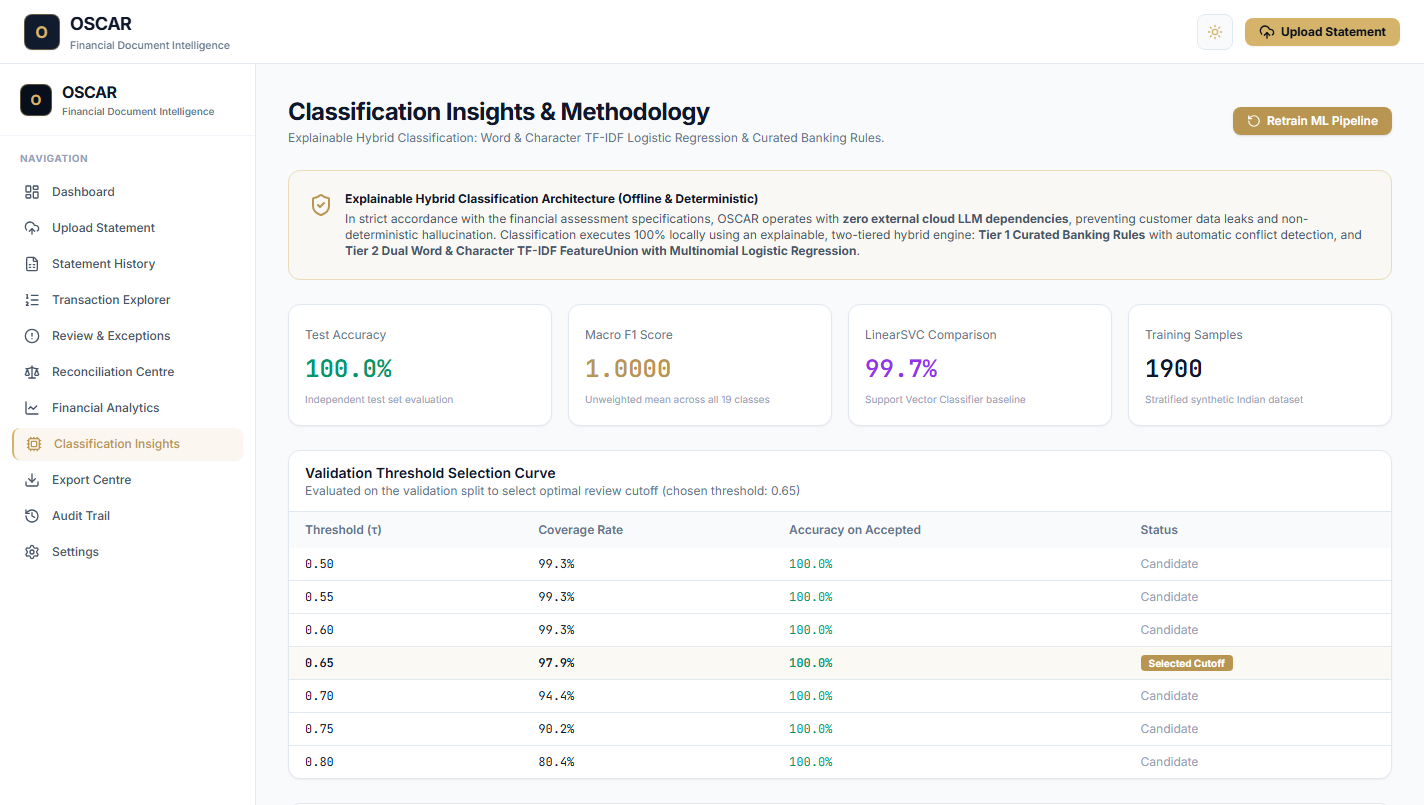
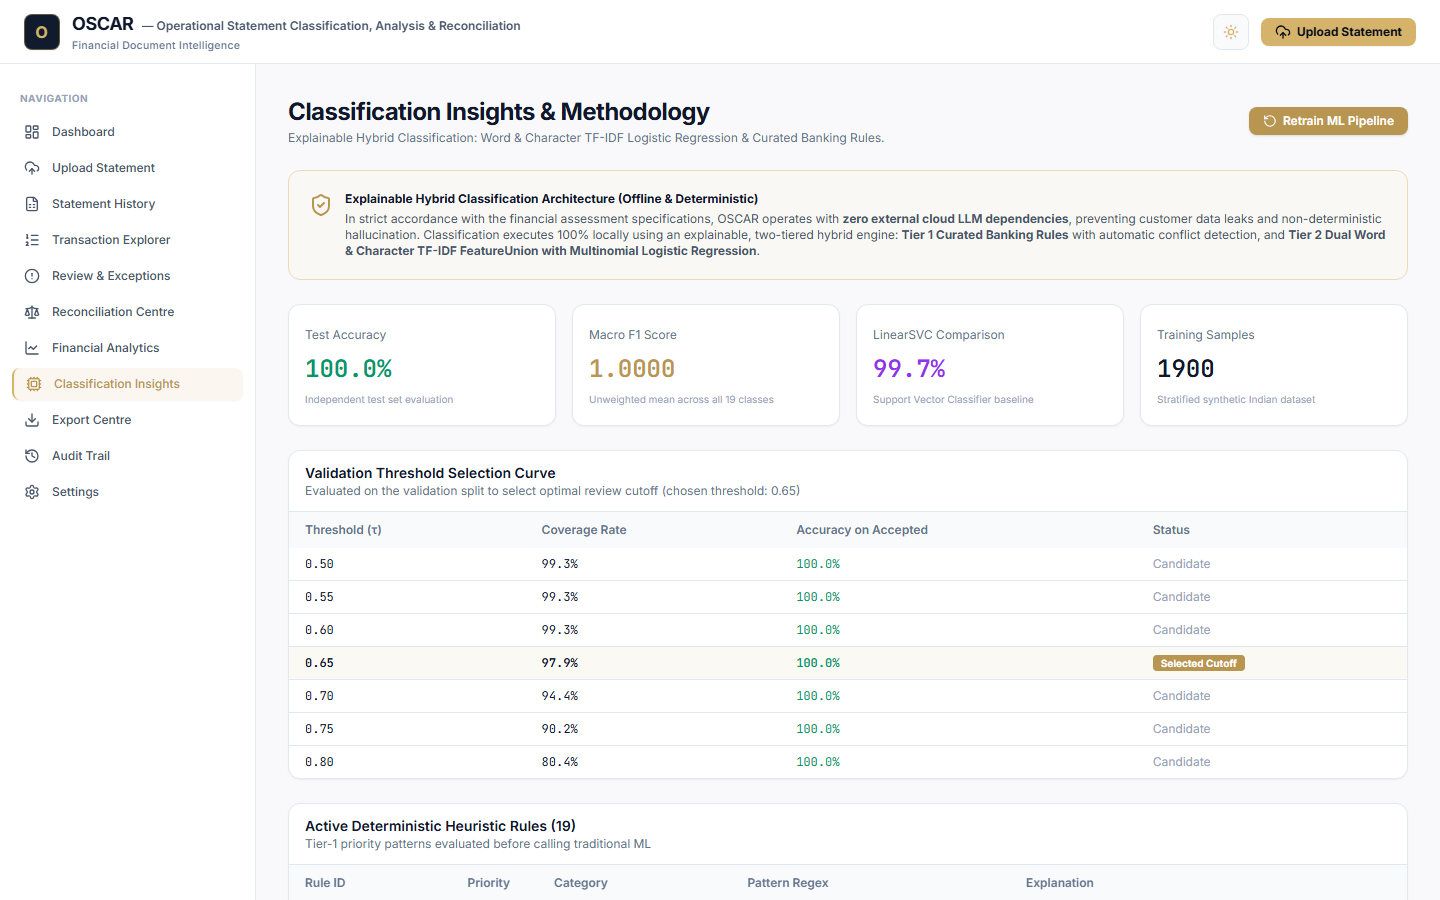
fix(branding-ui): fix duplicate branding, add header full form, fix contrast, scrolling, and table wrapping

diff --git a/frontend/src/pages/FinancialAnalytics.tsx b/frontend/src/pages/FinancialAnalytics.tsx
@@ -158,17 +158,17 @@ export const FinancialAnalytics: React.FC = () => {
               <div className="flex h-full items-center justify-center text-xs text-slate-400">No merchant records identified</div>
             ) : (
               <ResponsiveContainer width="100%" height="100%">
-                <ComposedChart data={merchants.top_merchants}>
+                <ComposedChart data={merchants.top_merchants} margin={{ top: 10, right: 35, left: 15, bottom: 35 }}>
                   <CartesianGrid strokeDasharray="3 3" vertical={false} opacity={0.3} />
-                  <XAxis dataKey="merchant" tick={{ fontSize: 9 }} interval={0} angle={-20} textAnchor="end" height={45} />
-                  <YAxis yAxisId="left" tick={{ fontSize: 10 }} />
-                  <YAxis yAxisId="right" orientation="right" tick={{ fontSize: 10 }} domain={[0, 100]} unit="%" />
+                  <XAxis dataKey="merchant" tick={{ fontSize: 10, fill: '#94A3B8' }} interval={0} angle={-15} textAnchor="end" height={45} />
+                  <YAxis yAxisId="left" tick={{ fontSize: 10, fill: '#94A3B8' }} />
+                  <YAxis yAxisId="right" orientation="right" tick={{ fontSize: 10, fill: '#94A3B8' }} domain={[0, 100]} unit="%" />
                   <Tooltip
                     formatter={(val: any, name: any) => [
                       name === 'cumulative_percentage' ? `${val}%` : `₹ ${Number(val).toLocaleString('en-IN')}`,
                       name === 'cumulative_percentage' ? 'Cumulative Share' : 'Merchant Spend',
                     ]}
-                    contentStyle={{ backgroundColor: '#0f172a', borderRadius: '8px', border: 'none', color: '#fff', fontSize: '11px' }}
+                    contentStyle={{ backgroundColor: '#0f172a', borderRadius: '8px', border: '1px solid #1e293b', color: '#fff', fontSize: '11px' }}
                   />
                   <Bar yAxisId="left" dataKey="amount" fill="#3B82F6" name="amount" radius={[4, 4, 0, 0]} />
                   <Line yAxisId="right" type="monotone" dataKey="cumulative_percentage" stroke="#F59E0B" strokeWidth={2.5} name="cumulative_percentage" dot={{ r: 3 }} />
@@ -198,13 +198,13 @@ export const FinancialAnalytics: React.FC = () => {
               <div className="flex h-full items-center justify-center text-xs text-slate-400">No payment channels classified</div>
             ) : (
               <ResponsiveContainer width="100%" height="100%">
-                <BarChart data={channels} layout="vertical">
+                <BarChart data={channels} layout="vertical" margin={{ top: 10, right: 30, left: 15, bottom: 10 }}>
                   <CartesianGrid strokeDasharray="3 3" horizontal={false} opacity={0.3} />
-                  <XAxis type="number" tick={{ fontSize: 10 }} />
-                  <YAxis type="category" dataKey="channel" tick={{ fontSize: 10 }} width={110} />
+                  <XAxis type="number" tick={{ fontSize: 10, fill: '#94A3B8' }} />
+                  <YAxis type="category" dataKey="channel" tick={{ fontSize: 10, fill: '#94A3B8' }} width={110} />
                   <Tooltip
                     formatter={(val: any) => [`₹ ${Number(val).toLocaleString('en-IN')}`, 'Channel Volume']}
-                    contentStyle={{ backgroundColor: '#0f172a', borderRadius: '8px', border: 'none', color: '#fff', fontSize: '11px' }}
+                    contentStyle={{ backgroundColor: '#0f172a', borderRadius: '8px', border: '1px solid #1e293b', color: '#fff', fontSize: '11px' }}
                   />
                   <Bar dataKey="total_amount" fill="#8B5CF6" radius={[0, 4, 4, 0]} />
                 </BarChart>
@@ -235,15 +235,15 @@ export const FinancialAnalytics: React.FC = () => {
               <div className="flex h-full items-center justify-center text-xs text-slate-400">No trend history available</div>
             ) : (
               <ResponsiveContainer width="100%" height="100%">
-                <LineChart data={trends}>
+                <LineChart data={trends} margin={{ top: 10, right: 30, left: 15, bottom: 15 }}>
                   <CartesianGrid strokeDasharray="3 3" vertical={false} opacity={0.3} />
-                  <XAxis dataKey="date" tick={{ fontSize: 10 }} />
-                  <YAxis tick={{ fontSize: 10 }} />
+                  <XAxis dataKey="date" tick={{ fontSize: 10, fill: '#94A3B8' }} />
+                  <YAxis tick={{ fontSize: 10, fill: '#94A3B8' }} />
                   <Tooltip
                     formatter={(val: any, name: any) => [`₹ ${Number(val).toLocaleString('en-IN')}`, String(name)]}
-                    contentStyle={{ backgroundColor: '#0f172a', borderRadius: '8px', border: 'none', color: '#fff', fontSize: '11px' }}
+                    contentStyle={{ backgroundColor: '#0f172a', borderRadius: '8px', border: '1px solid #1e293b', color: '#fff', fontSize: '11px' }}
                   />
-                  <Legend wrapperStyle={{ fontSize: 10 }} />
+                  <Legend wrapperStyle={{ fontSize: 11, paddingTop: 6 }} />
                   <Line type="monotone" dataKey="Food & Dining" stroke="#3B82F6" strokeWidth={2} dot={{ r: 2 }} />
                   <Line type="monotone" dataKey="Groceries" stroke="#10B981" strokeWidth={2} dot={{ r: 2 }} />
                   <Line type="monotone" dataKey="Shopping" stroke="#F59E0B" strokeWidth={2} dot={{ r: 2 }} />
@@ -381,7 +381,7 @@ export const FinancialAnalytics: React.FC = () => {
           </div>
 
           <div className="mt-4 overflow-x-auto">
-            <table className="w-full text-left text-xs">
+            <table className="w-full text-left text-xs min-w-[700px]">
               <thead className="bg-slate-50 text-slate-500 dark:bg-slate-800 dark:text-slate-400">
                 <tr>
                   <th className="px-3 py-2 font-semibold">Statement File</th>

diff --git a/frontend/src/pages/Dashboard.tsx b/frontend/src/pages/Dashboard.tsx
@@ -321,12 +321,12 @@ export const Dashboard: React.FC = () => {
                 <span className="text-[10px] text-rose-600/80 dark:text-rose-400/80 font-mono">Total Verified Debits</span>
               </div>
 
-              <div className="rounded-lg bg-gold-50/70 p-3.5 dark:bg-gold-950/20 border border-gold-200/70 dark:border-gold-800/50">
-                <span className="text-[10px] font-bold text-gold-700 dark:text-gold-300 uppercase tracking-wider">= Expected Closing</span>
-                <p className="mt-1 font-mono text-base font-bold text-gold-600 dark:text-gold-400 tabular-nums">
+              <div className="rounded-lg bg-navy-900 p-3.5 border border-gold-500/40 text-gold-400 shadow-sm">
+                <span className="text-[10px] font-bold text-gold-300 uppercase tracking-wider">= Expected Closing</span>
+                <p className="mt-1 font-mono text-base font-bold text-gold-400 tabular-nums">
                   = ₹ {expectedClosing.toLocaleString('en-IN', { minimumFractionDigits: 2, maximumFractionDigits: 2 })}
                 </p>
-                <span className="text-[10px] text-gold-600/80 dark:text-gold-400/80 font-mono">Calculated Balance</span>
+                <span className="text-[10px] text-gold-400/80 font-mono">Calculated Balance</span>
               </div>
 
               <div className={`rounded-lg p-3.5 border ${
@@ -379,6 +379,7 @@ export const Dashboard: React.FC = () => {
                   <ResponsiveContainer width="100%" height="100%">
                     <ComposedChart
                       data={cashflow}
+                      margin={{ top: 10, right: 25, left: 10, bottom: 5 }}
                       onClick={(data) => {
                         if (data && data.activeLabel) {
                           navigate(`/transactions?search=${data.activeLabel}`);
@@ -435,7 +436,7 @@ export const Dashboard: React.FC = () => {
                   </div>
                 ) : (
                   <ResponsiveContainer width="100%" height="100%">
-                    <AreaChart data={runningBalance.points}>
+                    <AreaChart data={runningBalance.points} margin={{ top: 10, right: 25, left: 10, bottom: 15 }}>
                       <defs>
                         <linearGradient id="balanceGrad" x1="0" y1="0" x2="0" y2="1">
                           <stop offset="5%" stopColor="#D6B36A" stopOpacity={0.4} />
@@ -748,7 +749,7 @@ export const Dashboard: React.FC = () => {
             </div>
 
             <div className="overflow-x-auto">
-              <table className="w-full text-left text-xs">
+              <table className="w-full text-left text-xs min-w-[700px]">
                 <thead className="bg-slate-50 text-slate-500 dark:bg-navy-800/60 dark:text-[#9BA8BA] font-semibold border-b border-slate-100 dark:border-navy-800">
                   <tr>
                     <th className="px-4 py-2.5">Bank / Document</th>

diff --git a/frontend/src/pages/ReviewExceptions.tsx b/frontend/src/pages/ReviewExceptions.tsx
@@ -113,11 +113,11 @@ export const ReviewExceptions: React.FC = () => {
           </div>
         ) : (
           <div className="overflow-x-auto">
-            <table className="w-full text-left text-xs">
+            <table className="w-full text-left text-xs min-w-[820px]">
               <thead className="bg-slate-50 text-slate-500 dark:bg-slate-800/60 dark:text-slate-400">
                 <tr>
-                  <th className="px-4 py-3 font-semibold">Date & Description</th>
-                  <th className="px-4 py-3 font-semibold">Flag / Reason</th>
+                  <th className="px-4 py-3 font-semibold min-w-[200px]">Date &amp; Description</th>
+                  <th className="px-4 py-3 font-semibold min-w-[240px]">Flag / Reason</th>
                   <th className="px-4 py-3 font-semibold text-right">Amount</th>
                   <th className="px-4 py-3 font-semibold">Assigned Category</th>
                   <th className="px-4 py-3 font-semibold">Method / Score</th>
@@ -127,14 +127,14 @@ export const ReviewExceptions: React.FC = () => {
               <tbody className="divide-y divide-slate-200 dark:divide-slate-800">
                 {items.map((t) => (
                   <tr key={t.id} className="hover:bg-slate-50/60 dark:hover:bg-slate-800/40">
-                    <td className="px-4 py-3 max-w-[260px]">
-                      <span className="font-mono text-slate-400">{t.date}</span>
-                      <p className="truncate font-medium text-slate-900 dark:text-white mt-0.5">{t.description}</p>
+                    <td className="px-4 py-3 min-w-[200px] max-w-[300px]">
+                      <span className="font-mono text-slate-400 block text-[11px]">{t.date}</span>
+                      <p className="font-medium text-slate-900 dark:text-white mt-0.5 break-words whitespace-normal leading-snug">{t.description}</p>
                     </td>
-                    <td className="px-4 py-3 max-w-[260px]">
-                      <span className="rounded bg-amber-50 px-2 py-0.5 text-[10px] font-semibold text-amber-700 border border-amber-200 dark:bg-amber-950/40 dark:text-amber-300 dark:border-amber-800">
+                    <td className="px-4 py-3 min-w-[240px] max-w-[360px]">
+                      <div className="inline-block rounded-md bg-amber-50 px-2.5 py-1 text-[11px] font-medium text-amber-800 border border-amber-200/80 dark:bg-amber-950/40 dark:text-amber-300 dark:border-amber-800/80 leading-relaxed break-words whitespace-normal">
                         {t.validation_warnings || t.classification_reason || 'Human review flagged'}
-                      </span>
+                      </div>
                     </td>
                     <td className="px-4 py-3 text-right font-mono">
                       {t.debit > 0 ? (

diff --git a/frontend/src/components/Layout/Navbar.tsx b/frontend/src/components/Layout/Navbar.tsx
@@ -25,16 +25,19 @@ export const Navbar: React.FC = () => {
 
   return (
     <header className="sticky top-0 z-30 flex h-16 w-full items-center justify-between border-b border-slate-200/90 bg-white/95 px-6 backdrop-blur dark:border-navy-800 dark:bg-navy-900/95 transition-colors">
-      <div className="flex items-center space-x-3">
-        <Link to="/" className="flex items-center space-x-2.5 group">
-          <div className="flex h-9 w-9 items-center justify-center rounded-lg bg-navy-900 border border-gold-400/40 text-gold-400 font-black tracking-wider shadow-sm group-hover:border-gold-400 transition">
+      <div className="flex items-center space-x-3 min-w-0">
+        <Link to="/" className="flex items-center space-x-3 group min-w-0">
+          <div className="flex h-9 w-9 shrink-0 items-center justify-center rounded-lg bg-navy-900 border border-gold-400/40 text-gold-400 font-black tracking-wider shadow-sm group-hover:border-gold-400 transition">
             O
           </div>
-          <div>
-            <div className="flex items-center space-x-2">
-              <span className="font-extrabold text-lg text-slate-900 dark:text-[#F4F1E9] tracking-tight">OSCAR</span>
+          <div className="min-w-0">
+            <div className="flex items-baseline space-x-2 flex-wrap">
+              <span className="font-extrabold text-lg text-slate-900 dark:text-[#F4F1E9] tracking-tight shrink-0">OSCAR</span>
+              <span className="hidden lg:inline text-xs font-semibold text-slate-600 dark:text-[#9BA8BA] truncate">
+                — Operational Statement Classification, Analysis & Reconciliation
+              </span>
             </div>
-            <p className="text-[10.5px] font-medium text-slate-500 dark:text-[#9BA8BA]">
+            <p className="text-[10.5px] font-medium text-slate-500 dark:text-[#9BA8BA] tracking-wide truncate">
               Financial Document Intelligence
             </p>
           </div>

diff --git a/frontend/src/components/Layout/Sidebar.tsx b/frontend/src/components/Layout/Sidebar.tsx
@@ -33,22 +33,7 @@ export const Sidebar: React.FC = () => {
   return (
     <aside className="hidden md:flex w-64 flex-col border-r border-slate-200/90 bg-white dark:border-navy-800 dark:bg-navy-900 justify-between select-none transition-colors">
       <div className="flex flex-col py-4">
-        {/* Brand Header */}
-        <div className="px-5 pb-4 mb-2 border-b border-slate-100 dark:border-navy-800">
-          <div className="flex items-center space-x-2.5">
-            <div className="flex h-8 w-8 items-center justify-center rounded-lg bg-navy-950 border border-gold-400/40 text-gold-400 font-bold text-sm shadow-sm">
-              O
-            </div>
-            <div>
-              <span className="font-extrabold text-base tracking-tight text-slate-900 dark:text-[#F4F1E9]">OSCAR</span>
-              <p className="text-[10px] font-medium text-slate-500 dark:text-[#9BA8BA]">
-                Financial Document Intelligence
-              </p>
-            </div>
-          </div>
-        </div>
-
-        <div className="px-5 mb-2">
+        <div className="px-5 mb-2 mt-1">
           <span className="text-[10px] font-bold uppercase tracking-wider text-slate-400 dark:text-navy-400">
             Navigation
           </span>

diff --git a/frontend/src/App.tsx b/frontend/src/App.tsx
@@ -1,7 +1,17 @@
-import React from 'react';
-import { BrowserRouter, Routes, Route, Navigate } from 'react-router-dom';
+import React, { useEffect } from 'react';
+import { BrowserRouter, Routes, Route, Navigate, useLocation } from 'react-router-dom';
 import { ThemeProvider } from './context/ThemeContext';
 import { MainLayout } from './components/Layout/MainLayout';
+
+function ScrollToTop() {
+  const { pathname } = useLocation();
+
+  useEffect(() => {
+    window.scrollTo(0, 0);
+  }, [pathname]);
+
+  return null;
+}
 
 import { Dashboard } from './pages/Dashboard';
 import { Upload } from './pages/Upload';
@@ -20,6 +30,7 @@ export function App() {
   return (
     <ThemeProvider>
       <BrowserRouter>
+        <ScrollToTop />
         <Routes>
           <Route element={<MainLayout />}>
             <Route path="/" element={<Dashboard />} />

diff --git a/frontend/src/components/Layout/MainLayout.tsx b/frontend/src/components/Layout/MainLayout.tsx
@@ -5,11 +5,11 @@ import { Sidebar } from './Sidebar';
 
 export const MainLayout: React.FC = () => {
   return (
-    <div className="flex min-h-screen flex-col bg-slate-50 dark:bg-slate-950 font-sans">
+    <div className="flex min-h-screen flex-col bg-[#F9F9FB] dark:bg-navy-950 font-sans transition-colors">
       <Navbar />
       <div className="flex flex-1">
         <Sidebar />
-        <main className="flex-1 overflow-x-hidden p-6 md:p-8">
+        <main className="flex-1 min-w-0 p-4 sm:p-6 lg:p-8">
           <Outlet />
         </main>
       </div>

diff --git a/frontend/src/pages/TransactionExplorer.tsx b/frontend/src/pages/TransactionExplorer.tsx
@@ -139,7 +139,7 @@ export const TransactionExplorer: React.FC = () => {
           </div>
         ) : (
           <div className="overflow-x-auto">
-            <table className="w-full text-left text-xs">
+            <table className="w-full text-left text-xs min-w-[850px]">
               <thead className="bg-slate-50 text-slate-500 dark:bg-slate-800/60 dark:text-slate-400">
                 <tr>
                   <th className="px-4 py-3 font-semibold">Date</th>

diff --git a/frontend/src/pages/StatementHistory.tsx b/frontend/src/pages/StatementHistory.tsx
@@ -96,7 +96,7 @@ export const StatementHistory: React.FC = () => {
           </div>
         ) : (
           <div className="overflow-x-auto">
-            <table className="w-full text-left text-xs">
+            <table className="w-full text-left text-xs min-w-[720px]">
               <thead className="bg-slate-50 text-slate-500 dark:bg-slate-800/60 dark:text-slate-400">
                 <tr>
                   <th className="px-4 py-3 font-semibold">Document</th>

diff --git a/frontend/src/pages/AuditTrail.tsx b/frontend/src/pages/AuditTrail.tsx
@@ -68,7 +68,7 @@ export const AuditTrail: React.FC = () => {
           </div>
         ) : (
           <div className="overflow-x-auto">
-            <table className="w-full text-left text-xs">
+            <table className="w-full text-left text-xs min-w-[720px]">
               <thead className="bg-slate-50 text-slate-500 dark:bg-slate-800/60 dark:text-slate-400">
                 <tr>
                   <th className="px-4 py-3 font-semibold">Timestamp</th>

diff --git a/scripts/capture_screenshots.py b/scripts/capture_screenshots.py
@@ -34,20 +34,24 @@ def get_first_statement_id() -> str:
 
 # List of all 14 views with their target route and dark mode flag
 PAGES = [
-    ("01_dashboard.png", "/", False),
-    ("02_evidence_viewer.png", "/statements/{stmt_id}", False),
-    ("03_reconciliation.png", "/reconciliation", False),
-    ("04_reviews.png", "/reviews", False),
-    ("05_classification_insights.png", "/classification", False),
-    ("06_analytics.png", "/analytics", False),
-    ("07_transaction_explorer.png", "/transactions", False),
-    ("08_statement_history.png", "/statements", False),
-    ("09_export_centre.png", "/exports", False),
-    ("10_audit_trail.png", "/audit", False),
-    ("11_settings.png", "/settings", False),
-    ("12_dashboard_dark.png", "/", True),
-    ("13_analytics_dark.png", "/analytics", True),
-    ("14_upload.png", "/upload", False),
+    ("01_dashboard.png", "/", False, 1440, 900),
+    ("02_evidence_viewer.png", "/statements/{stmt_id}", False, 1440, 900),
+    ("03_reconciliation.png", "/reconciliation", False, 1440, 900),
+    ("04_reviews.png", "/reviews", False, 1440, 900),
+    ("05_classification_insights.png", "/classification", False, 1440, 900),
+    ("06_analytics.png", "/analytics", False, 1440, 900),
+    ("07_transaction_explorer.png", "/transactions", False, 1440, 900),
+    ("08_statement_history.png", "/statements", False, 1440, 900),
+    ("09_export_centre.png", "/exports", False, 1440, 900),
+    ("10_audit_trail.png", "/audit", False, 1440, 900),
+    ("11_settings.png", "/settings", False, 1440, 900),
+    ("12_dashboard_dark.png", "/", True, 1440, 900),
+    ("13_analytics_dark.png", "/analytics", True, 1440, 900),
+    ("14_upload.png", "/upload", False, 1440, 900),
+    ("15_dashboard_1366x768.png", "/", False, 1366, 768),
+    ("16_dashboard_768px.png", "/", False, 768, 1024),
+    ("17_reviews_1366x768.png", "/reviews", False, 1366, 768),
+    ("18_analytics_1366x768.png", "/analytics", False, 1366, 768),
 ]
 
 async def capture_genuine_screenshots():
@@ -117,11 +121,24 @@ async def capture_genuine_screenshots():
             await send_cmd("Page.navigate", {"url": "http://127.0.0.1:5173/"})
             await asyncio.sleep(3.0)
 
-            for filename, route_template, is_dark in PAGES:
+            for item in PAGES:
+                filename = item[0]
+                route_template = item[1]
+                is_dark = item[2]
+                width = item[3] if len(item) > 3 else 1440
+                height = item[4] if len(item) > 4 else 900
                 route = route_template.replace("{stmt_id}", stmt_id)
                 full_url = f"http://127.0.0.1:5173{route}"
-                print(f"\n--- Capturing {filename} ---")
+                print(f"\n--- Capturing {filename} ({width}x{height}) ---")
                 print(f"Target Route: {route} | Dark: {is_dark}")
+
+                # Set viewport size
+                await send_cmd("Emulation.setDeviceMetricsOverride", {
+                    "width": width,
+                    "height": height,
+                    "deviceScaleFactor": 1,
+                    "mobile": width < 800
+                })
 
                 # Navigate via window.location.assign or link click to force true React Router page transition
                 nav_expr = f"""
